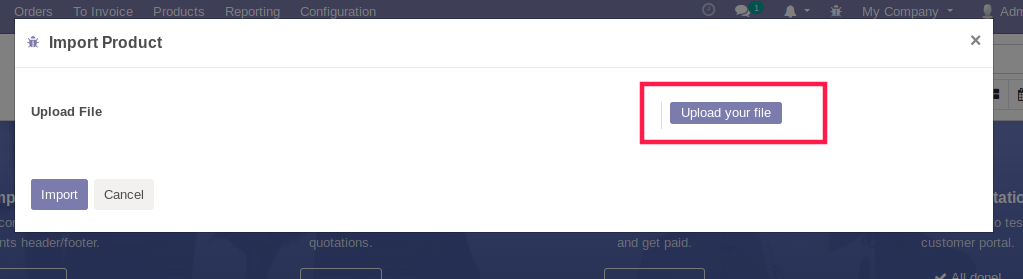
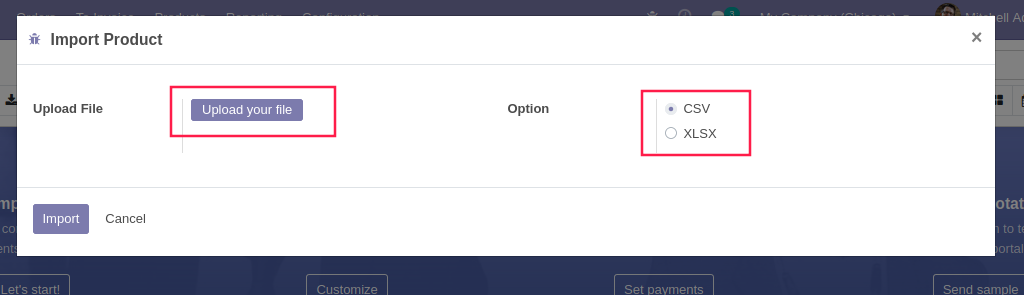
[CHG] Index changed 'product_import'

diff --git a/product_import/static/description/index.html b/product_import/static/description/index.html
@@ -8,7 +8,7 @@
     <div class="col-md-7 col-sm-12 col-xs-12" style="padding: 0px">
         <div style=" margin: 0 0 0px;padding: 20px 0 10;font-size: 23px;line-height: 35px;font-weight: 400;color: #000;border-top: 1px solid rgba(255,255,255,0.1);border-bottom: 1px solid rgba(255,255,255,0.11);text-align: left;">
             <h1 style="font-size: 39px;font-weight: 600;margin: 0px !important;">Import Product From Excel</h1>
-            <h3 style="font-size: 21px;margin-top: 8px;position: relative;"> Create Product Using Excel/CSV</h3>
+            <h3 style="font-size: 21px;margin-top: 8px;position: relative;"> Import Product Using Excel/CSV</h3>
         </div>
         <h2 style="font-weight: 600;font-size: 1.8rem;margin-top: 15px;">Key Highlights</h2>
         <ul style=" padding: 0 1px; list-style: none; ">
@@ -23,7 +23,7 @@
             </li>
         </ul>
     </div>
-    <div class="col-md-5 col-sm-12 col-xs-12"><img src="images/sale-history.png"
+    <div class="col-md-5 col-sm-12 col-xs-12"><img src="images/product_import1.png"
                                                    class="img-responsive" alt=""></div>
 </div>
 <div>
